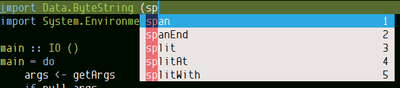
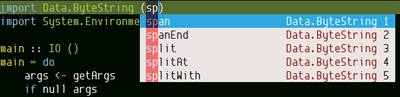
Add description to show module as annotation
Also update for keywords from imported modules.

Changed region(s): [[0.0, 0.0, 1.0, 0.9318], [0.0, 0.4545, 0.3, 1.0], [0.21, 0.0455, 0.24, 0.0682]]

diff --git a/README.rst b/README.rst
@@ -65,25 +65,27 @@ The following completions are available.
    .. image:: images/impspec.png
       :alt: Completion for import specs
 
-6. Keywords. (``ghc-merged-keywords``)
-
-   **This will be replaced by keywords of loaded modules in future.**
+6. Keywords from imported modules.
 
    .. image:: images/keyword.png
-      :alt: Completion for keywords
+      :alt: Completion for keywords of imported modules
 
 Show type info in minibuffer
 ----------------------------
-If ``company-ghc-show-info`` is ``t``, ``oneline`` or ``nomodule``,
-then type info of completion candidate is displayed in minibuffer
-by ``ghc-mod info``.
+* If ``company-ghc-show-info`` is ``t``, ``oneline`` or ``nomodule``,
+  then type info of completion candidate is displayed in minibuffer
+  by ``ghc-mod info``.
 
-.. image:: images/showinfo.png
-   :alt: Show info in minibuffer (``nomodule``)
+  .. image:: images/showinfo.png
+     :alt: Show info in minibuffer (``nomodule``)
+
+Show module name as annotation
+------------------------------
+* Module name is displayed as completion annotation
+  if ``company-ghc-show-module`` is non-nil (default) as in the above images.
 
 TODO
 ====
-* Show module name as annotation.
 * Context sensitive completion for qualified imported keywords.
 
 License
